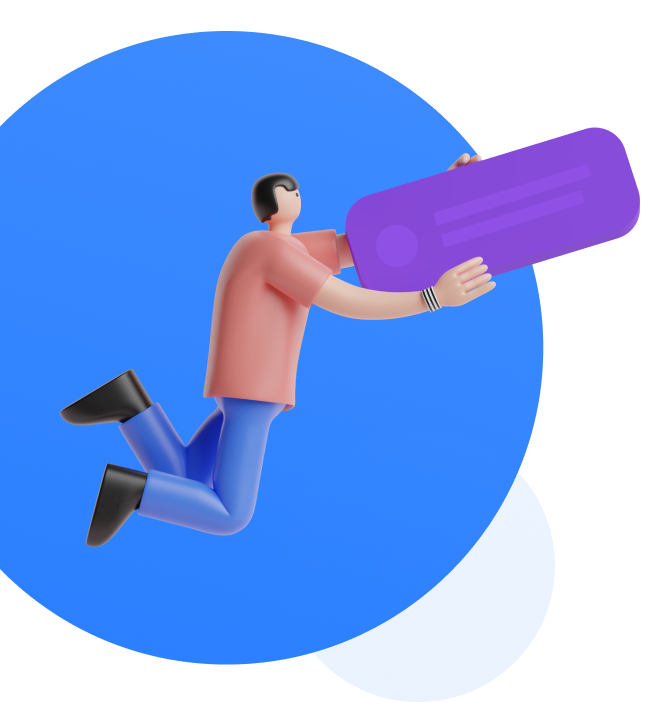
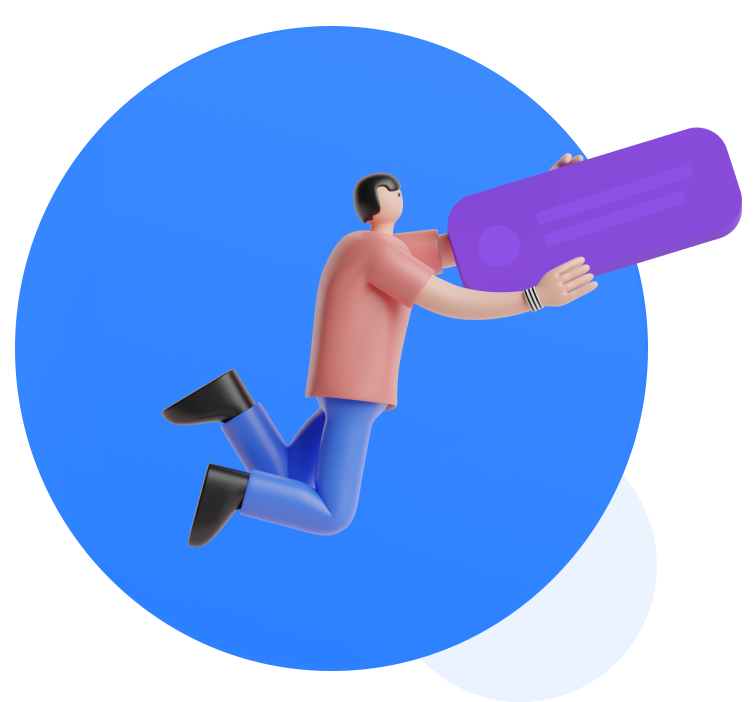
atualização no profile

Changed region(s): [[0.0, 0.0299, 0.9895, 0.9573]]

diff --git a/src/pages/profile/index.js b/src/pages/profile/index.js
@@ -4,9 +4,9 @@ import Link from "next/link";
 import { useState } from "react";
 import Card from "../../Components/Card";
 import { parseCookies } from "nookies";
+import GridCards from "../../Components/GridCards";
 
-export default function Profile(){
-  
+export default function Profile() {
   const [posts, setPosts] = useState();
   const [text, setName] = useState([]);
   const [imagemUrl, setImagemUrl] = useState("");
@@ -36,119 +36,126 @@ export default function Profile(){
   return (
     <>
       {/* NavBar - Componente - 1 */}
-      {/* className="max-h-full bg-gray-300" */}
-      <div className="max-h-full bg-gray-300">
-        <div className="bg-gray-300">
-          <div className="flex flex-row justify-evenly">
-            <div className="flex -ml-30 mt-12">
-              <Image src="/logoLupa.png" width={50} height={50} alt="Logo" />
-              <h1 className="text-5xl text-gray-700 font-bold">LocateMe</h1>
-            </div>
-            <div className="-ml-30 mt-12
-            ">
-              <Link
-                href="../feed/"
-                className="flex bg-blue-500 hover:bg-blue-600 text-white font-bold py-3 px-3 rounded"
-              >
-                <div>
-                  <svg
-                    xmlns="http://www.w3.org/2000/svg"
-                    fill="none"
-                    viewBox="0 0 24 24"
-                    strokeWidth={1.5}
-                    stroke="currentColor"
-                    className="w-6 h-6"
-                  >
-                    <path
-                      strokeLinecap="round"
-                      strokeLinejoin="round"
-                      d="M2.25 12l8.954-8.955c.44-.439 1.152-.439 1.591 0L21.75 12M4.5 9.75v10.125c0 .621.504 1.125 1.125 1.125H9.75v-4.875c0-.621.504-1.125 1.125-1.125h2.25c.621 0 1.125.504 1.125 1.125V21h4.125c.621 0 1.125-.504 1.125-1.125V9.75M8.25 21h8.25"
-                    />
-                  </svg>
-                </div>
-                Pagina inicial
-              </Link>
-            </div>
+    
+      <div className=" full-h-screen bg-slate-500 ">
+        
+
+        <div className="flex flex-row justify-evenly">
+          <div className="flex -ml-30 mt-12">
+            <Image src="/logoLupa.png" width={50} height={50} alt="Logo" />
+            <h1 className="text-5xl text-gray-700 font-bold">LocateMe</h1>
+          </div>
+          <div
+            className="-ml-30 mt-12"
+          >
+            <Link
+              href="../feed/"
+              className="flex bg-blue-500 hover:bg-blue-600 text-white font-bold py-3 px-3 rounded"
+            >
+              <div>
+                <svg
+                  xmlns="http://www.w3.org/2000/svg"
+                  fill="none"
+                  viewBox="0 0 24 24"
+                  strokeWidth={1.5}
+                  stroke="currentColor"
+                  className="w-6 h-6"
+                >
+                  <path
+                    strokeLinecap="round"
+                    strokeLinejoin="round"
+                    d="M2.25 12l8.954-8.955c.44-.439 1.152-.439 1.591 0L21.75 12M4.5 9.75v10.125c0 .621.504 1.125 1.125 1.125H9.75v-4.875c0-.621.504-1.125 1.125-1.125h2.25c.621 0 1.125.504 1.125 1.125V21h4.125c.621 0 1.125-.504 1.125-1.125V9.75M8.25 21h8.25"
+                  />
+                </svg>
+              </div>
+              Pagina inicial
+            </Link>
           </div>
         </div>
+        {/* </div> */}
 
-        <form className="grid justify-items-center mt-10  ">
-            <div className="w-3/6   mb-1 border border-blue-100 rounded-md bg-blue-100">
-              <div className="px-1 py-1 bg-white rounded-md dark:bg-blue-100 ">
-                <label htmlFor="comment" className="sr-only">
-                  Your comment
-                </label>
-                <textarea
-                  id="comment"
-                  rows="4"
-                  className="w-full px-1 py-1 text-sm text-gray-800 resize-none"
-                  placeholder="Write a comment..."
-                  onChange={(e) => {
-                    setPosts(e.target.value);
-                  }}
-                ></textarea>
-              </div>
-
-              <div className="flex items-center justify-between px-3 py-2 border-t">
-                <div className="flex pl-0 space-x-1 sm:pl-0 text-xs">
-                  <input
-                    onChange={handleUpload}
-                    type="file"
-                    className="inline-flex justify-end   text-gray-500 rounded cursor-pointer hover:text-gray-900 "
-                  ></input>
-                </div>
-                <button
-                  onClick={addPost}
-                  className="inline-flex items-center py-1 px-1 text-xs font-medium text-center text-white bg-blue-600 rounded-lg focus:ring-4 focus:ring-blue-200 dark:focus:ring-blue-400 hover:bg-blue-400"
-                >
-                  <svg
-                    xmlns="http://www.w3.org/2000/svg"
-                    fill="none"
-                    viewBox="0 0 24 24"
-                    strokeWidth={1.5}
-                    stroke="currentColor"
-                    className="w-6 h-6"
-                  >
-                    <path
-                      strokeLinecap="round"
-                      strokeLinejoin="round"
-                      d="M6 12L3.269 3.126A59.768 59.768 0 0121.485 12 59.77 59.77 0 013.27 20.876L5.999 12zm0 0h7.5"
-                    />
-                  </svg>
-                </button>
-              </div>
+        <form className="grid justify-items-center mt-10 ">
+          <div className="w-3/6   mb-1 border border-blue-100 rounded-md bg-blue-100">
+            <div className="px-1 py-1 bg-white rounded-md dark:bg-blue-100 ">
+              <label htmlFor="comment" className="sr-only">
+                Your comment
+              </label>
+              <textarea
+                id="comment"
+                rows="4"
+                className="w-full px-1 py-1 text-sm text-gray-800 resize-none"
+                placeholder="Write a comment..."
+                onChange={(e) => {
+                  setPosts(e.target.value);
+                }}
+              ></textarea>
             </div>
-          </form>
 
-        <div className="grid justify-items-center">
-            {text.map((item, index) => (
-              <Card
-                key={index}
-                text={item.text}
-                time={item.time}
-                imagemUrl={item.imagemUrl}
-              />
-            ))}
+            <div className="flex items-center justify-between px-3 py-2 border-t">
+              <div className="flex pl-0 space-x-1 sm:pl-0 text-xs">
+                <input
+                  onChange={handleUpload}
+                  type="file"
+                  className="inline-flex justify-end   text-gray-500 rounded cursor-pointer hover:text-gray-900 "
+                ></input>
+              </div>
+              <button
+                onClick={addPost}
+                className="inline-flex items-center py-1 px-1 text-xs font-medium text-center text-white bg-blue-600 rounded-lg focus:ring-4 focus:ring-blue-200 dark:focus:ring-blue-400 hover:bg-blue-400"
+              >
+                <svg
+                  xmlns="http://www.w3.org/2000/svg"
+                  fill="none"
+                  viewBox="0 0 24 24"
+                  strokeWidth={1.5}
+                  stroke="currentColor"
+                  className="w-6 h-6"
+                >
+                  <path
+                    strokeLinecap="round"
+                    strokeLinejoin="round"
+                    d="M6 12L3.269 3.126A59.768 59.768 0 0121.485 12 59.77 59.77 0 013.27 20.876L5.999 12zm0 0h7.5"
+                  />
+                </svg>
+              </button>
+            </div>
           </div>
+          <GridCards/>
+        </form>
+        
       </div>
+
+      <div className="full-h-screen bg-slate-500 ">
+        <div className=" grid justify-items-center">
+          {text.map((item, index) => (
+            <Card
+              key={index}
+              text={item.text}
+              time={item.time}
+              imagemUrl={item.imagemUrl}
+            />
+          ))}
+        </div>
+      </div>
+        
       {/* /NavBar */}
     </>
   );
-};
+}
 
-export const getServerSideProps = async (ctx) => {
-  const { 'findy-token': token } = parseCookies(ctx);
+// export const getServerSideProps = async (ctx) => {
+//   const { 'findy-token': token } = parseCookies(ctx);
 
-  if (!token) {
-    return {
-      redirect: {
-        destination: "/authi/signInPage",
-        permanent: false,
-      },
-    };
-  }
+//   if (!token) {
+//     return {
+//       redirect: {
+//         destination: "/authi/signInPage",
+//         permanent: false,
+//       },
+//     };
+//   }
 
-  return {
-    props: {},
-  };
-};
+//   return {
+//     props: {},
+//   };
+// };

diff --git a/src/Components/GridCards.js b/src/Components/GridCards.js
@@ -1,0 +1,40 @@
+import React from "react";
+import Image from "next/image";
+export default function GridCards() {
+  return (
+    <>
+      <section>
+        <div className="grid justify-items-center grid-cols-2 gap-4 mt-10 mb-14">
+          <div class="w-64 bg-white  rounded-lg px-4 py-4 ring-1 ">
+            <div className="flex justify-center">
+              <Image src="/logoLupa.png" width={50} height={50} alt="Logo" />
+            </div>
+
+            <h3 class="text-gray-800  mt-5 text-base font-medium tracking-tight">
+              Ache objetos perdidos
+            </h3>
+            <p class="text-slate-500 dark:text-slate-400 mt-2 text-sm">
+              Postar informações sobre objetos perdidos em locais públicos pode
+              ajudar a reunir proprietários com seus itens perdidos e criar uma
+              comunidade mais solidária.
+            </p>
+          </div>
+          <div class="w-64 bg-white  rounded-lg px-4 py-4 ring-1 ">
+            <div className="flex justify-center">
+              <Image src="/logoLupa.png" width={50} height={50} alt="Logo" />
+            </div>
+
+            <h3 class="text-gray-800  mt-5 text-base font-medium tracking-tight">
+              Ache objetos perdidos
+            </h3>
+            <p class="text-slate-500 dark:text-slate-400 mt-2 text-sm">
+              Postar informações sobre objetos perdidos em locais públicos pode
+              ajudar a reunir proprietários com seus itens perdidos e criar uma
+              comunidade mais solidária.
+            </p>
+          </div>
+        </div>
+      </section>
+    </>
+  );
+}

diff --git a/src/Components/Card.js b/src/Components/Card.js
@@ -3,7 +3,7 @@ import Link from "next/link";
 export default function Card(props) {
   return (
     <>
-      <div className="w-96 h-74  py-2 bg-gray-100 border rounded-md max-w-md mt-2 ">
+      <div className="w-96 h-72  py-2 bg-white border border-gray-300 rounded-md max-w-md mt-10 mb-6 ">
         {/* create image */}
         <div className="flex  items-center px-4 py-3">
           <img
@@ -28,14 +28,13 @@ export default function Card(props) {
           <Image width="130" height="130" src={props.imagemUrl} />
         </div>
 
-        <div className="flex items-center  justify-evenly   ">
-          <button className="bg-red-500 hover:bg-red-600 text-white font-bold py-1 px-4 rounded mr-2">
-            Email
-          </button>
+        <div className="flex items-center  justify-center px-10  py-4 bg-gray-100 rounded-b-lg  border border-gray-300 ">
+        <Link href={''} className="px-6 ">
+            <Image src="/gmail.png" width={25} height={25}/>     
+          </Link>
+         
           <Link href={`https://wa.me/55${props.phone}`}>
-            <button className="bg-green-500 hover:bg-green-600 text-white font-bold py-1 px-4 rounded" >
-              WhatsApp
-            </button>
+            <Image src="/whatsapp.png" width={25} height={25}/>     
           </Link>
         </div>
       </div>

diff --git a/src/pages/index.js b/src/pages/index.js
@@ -24,10 +24,10 @@ export default function Home() {
         {/* /NavBar */}
 
         {/* Section */}
-        <div className="container  md-auto ">
-          <div className="flex space-x-28">
+        <div className="container  md-auto  ">
+          <div className="flex space-x-36">
             {/* Image */}
-            <div className="flex-shrink -mt-16">
+            <div className="flex-shrink -mt-16 ml-20 ease-linear transform hover:scale-125 transition duration-700">
               <Image
                 src="/Ilustracao.png"
                 width={500}
@@ -52,7 +52,7 @@ export default function Home() {
                 </button>
               </Link>
               <Link href="./authi/signupPage">
-                <button className="inline-block px-6 py-3 text-xl font-bold text-gray-700 border rounded-lg bg-blue-400 border-teal-600 hover:bg-gray-300 hover:bg-white">
+                <button className="inline-block px-6 py-3 text-xl font-bold text-gray-700 border rounded-lg bg-blue-400 border-teal-600 hover:bg-gray-300 ">
                   Criar perfil
                 </button>
               </Link>
